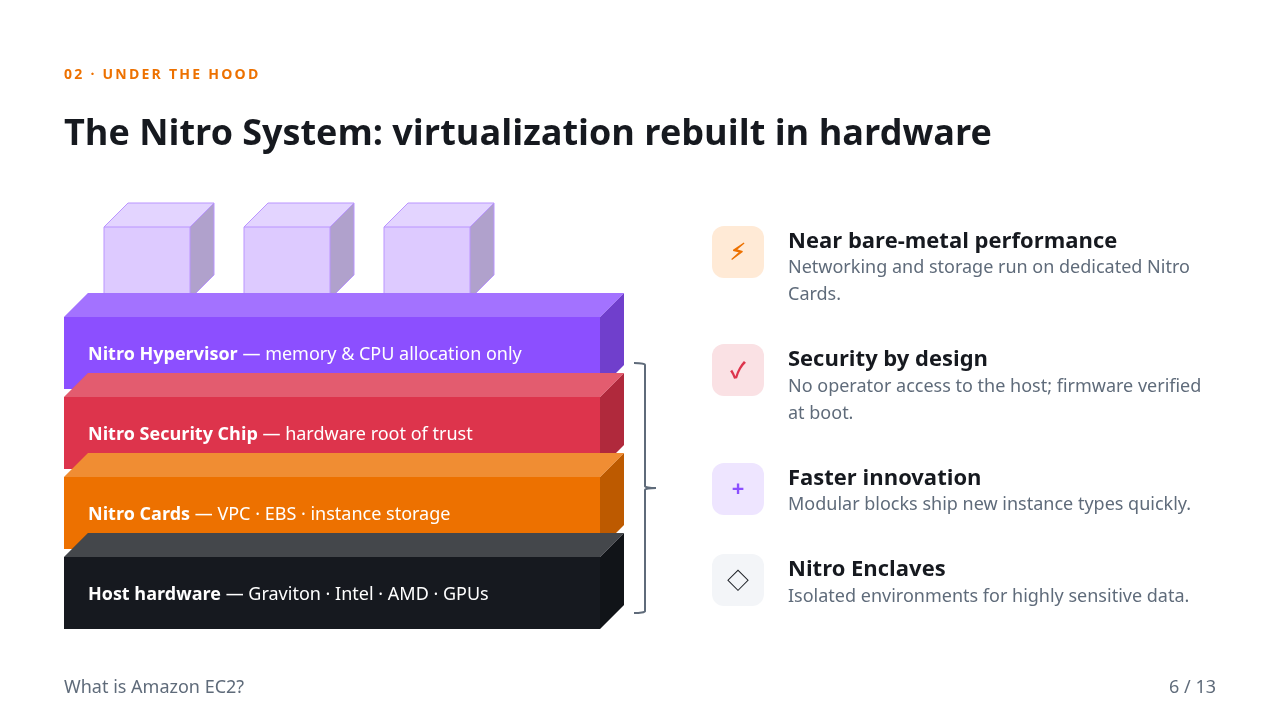
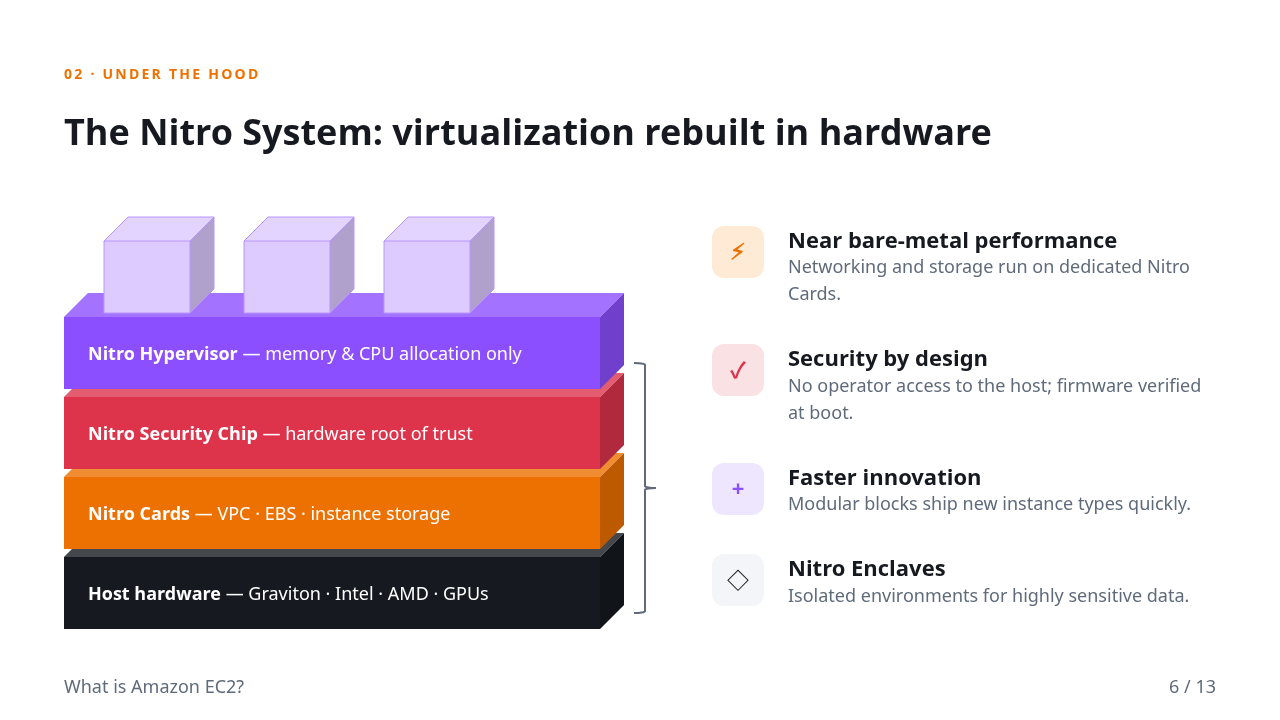
doc: re-render showcase with the reordered Nitro stack

diff --git a/examples/showcase/decks/ec2-intro/index.html b/examples/showcase/decks/ec2-intro/index.html
@@ -1013,14 +1013,23 @@
 <h2 class="balpyo-text" data-balpyo-id="s5.1" data-balpyo-el="h2" data-balpyo-enter="rise" data-balpyo-enter-delay="240" style="font-family: var(--balpyo-font-heading); font-size: 36px; font-weight: 700; line-height: 1.3; color: var(--balpyo-color-fg); text-align: start">The Nitro System: virtualization rebuilt in hardware</h2>
 <div class="balpyo-row" data-balpyo-id="s5.2" data-balpyo-el="row" data-balpyo-enter="rise" data-balpyo-enter-delay="330" style="gap: var(--balpyo-space-xl); align-items: center; flex-grow: 1">
 <div class="balpyo-stack" data-balpyo-id="s5.2.0" data-balpyo-el="stack" style="width: 600px; height: 430px">
-<div class="balpyo-shape" data-balpyo-id="s5.2.0.0" data-balpyo-el="shape" style="width: 110px; height: 96px; position: absolute; left: 40px; top: 0px">
-<svg class="balpyo-shape-ink" viewBox="0 0 110 96" preserveAspectRatio="none" aria-hidden="true" style="fill: hsl(from var(--balpyo-color-accent4) h s calc(l * 0.3 + 70)); stroke: hsl(from var(--balpyo-color-accent4) h s calc(l * 0.6 + 40)); stroke-width: 1px"><path stroke="none" d="M0,24 L86,24 L86,96 L0,96 Z" vector-effect="non-scaling-stroke"/><path stroke="none" d="M86,24 L110,0 L110,72 L86,96 Z" vector-effect="non-scaling-stroke"/><path d="M86,24 L110,0 L110,72 L86,96 Z" style="fill: rgb(0 0 0 / 0.2); stroke: none"/><path stroke="none" d="M0,24 L24,0 L110,0 L86,24 Z" vector-effect="non-scaling-stroke"/><path d="M0,24 L24,0 L110,0 L86,24 Z" style="fill: rgb(255 255 255 / 0.2); stroke: none"/><path fill="none" d="M0,24 L24,0 L110,0 L110,72 L86,96 L0,96 Z M0,24 L86,24 L110,0 M86,24 L86,96" vector-effect="non-scaling-stroke"/></svg>
+<div class="balpyo-shape" data-balpyo-id="s5.2.0.0" data-balpyo-el="shape" style="width: 560px; height: 96px; position: absolute; left: 0px; top: 330px">
+<svg class="balpyo-shape-ink" viewBox="0 0 560 96" preserveAspectRatio="none" aria-hidden="true" style="fill: var(--balpyo-color-fg); stroke: none"><path stroke="none" d="M0,24 L536,24 L536,96 L0,96 Z" vector-effect="non-scaling-stroke"/><path stroke="none" d="M536,24 L560,0 L560,72 L536,96 Z" vector-effect="non-scaling-stroke"/><path d="M536,24 L560,0 L560,72 L536,96 Z" style="fill: rgb(0 0 0 / 0.2); stroke: none"/><path stroke="none" d="M0,24 L24,0 L560,0 L536,24 Z" vector-effect="non-scaling-stroke"/><path d="M0,24 L24,0 L560,0 L536,24 Z" style="fill: rgb(255 255 255 / 0.2); stroke: none"/><path fill="none" d="M0,24 L24,0 L560,0 L560,72 L536,96 L0,96 Z M0,24 L536,24 L560,0 M536,24 L536,96" vector-effect="non-scaling-stroke"/></svg>
+<div class="balpyo-shape-body" style="left: 0%; top: 25%; right: 4.2857%; bottom: 0%; padding: var(--balpyo-space-md) var(--balpyo-space-md) var(--balpyo-space-md) var(--balpyo-space-md)">
+<p class="balpyo-text" data-balpyo-id="s5.2.0.0.0" data-balpyo-el="p" style="font-family: var(--balpyo-font-body); font-size: 18px; font-weight: 400; line-height: 1.5; color: var(--balpyo-color-bg); text-align: start"><strong style="font-family: var(--balpyo-font-body); font-size: 18px; font-weight: 700; line-height: 1.5; color: var(--balpyo-color-bg); text-align: start; font-style: normal; text-decoration: none">Host hardware</strong> — Graviton · Intel · AMD · GPUs</p>
 </div>
-<div class="balpyo-shape" data-balpyo-id="s5.2.0.1" data-balpyo-el="shape" style="width: 110px; height: 96px; position: absolute; left: 180px; top: 0px">
-<svg class="balpyo-shape-ink" viewBox="0 0 110 96" preserveAspectRatio="none" aria-hidden="true" style="fill: hsl(from var(--balpyo-color-accent4) h s calc(l * 0.3 + 70)); stroke: hsl(from var(--balpyo-color-accent4) h s calc(l * 0.6 + 40)); stroke-width: 1px"><path stroke="none" d="M0,24 L86,24 L86,96 L0,96 Z" vector-effect="non-scaling-stroke"/><path stroke="none" d="M86,24 L110,0 L110,72 L86,96 Z" vector-effect="non-scaling-stroke"/><path d="M86,24 L110,0 L110,72 L86,96 Z" style="fill: rgb(0 0 0 / 0.2); stroke: none"/><path stroke="none" d="M0,24 L24,0 L110,0 L86,24 Z" vector-effect="non-scaling-stroke"/><path d="M0,24 L24,0 L110,0 L86,24 Z" style="fill: rgb(255 255 255 / 0.2); stroke: none"/><path fill="none" d="M0,24 L24,0 L110,0 L110,72 L86,96 L0,96 Z M0,24 L86,24 L110,0 M86,24 L86,96" vector-effect="non-scaling-stroke"/></svg>
 </div>
-<div class="balpyo-shape" data-balpyo-id="s5.2.0.2" data-balpyo-el="shape" style="width: 110px; height: 96px; position: absolute; left: 320px; top: 0px">
-<svg class="balpyo-shape-ink" viewBox="0 0 110 96" preserveAspectRatio="none" aria-hidden="true" style="fill: hsl(from var(--balpyo-color-accent4) h s calc(l * 0.3 + 70)); stroke: hsl(from var(--balpyo-color-accent4) h s calc(l * 0.6 + 40)); stroke-width: 1px"><path stroke="none" d="M0,24 L86,24 L86,96 L0,96 Z" vector-effect="non-scaling-stroke"/><path stroke="none" d="M86,24 L110,0 L110,72 L86,96 Z" vector-effect="non-scaling-stroke"/><path d="M86,24 L110,0 L110,72 L86,96 Z" style="fill: rgb(0 0 0 / 0.2); stroke: none"/><path stroke="none" d="M0,24 L24,0 L110,0 L86,24 Z" vector-effect="non-scaling-stroke"/><path d="M0,24 L24,0 L110,0 L86,24 Z" style="fill: rgb(255 255 255 / 0.2); stroke: none"/><path fill="none" d="M0,24 L24,0 L110,0 L110,72 L86,96 L0,96 Z M0,24 L86,24 L110,0 M86,24 L86,96" vector-effect="non-scaling-stroke"/></svg>
+<div class="balpyo-shape" data-balpyo-id="s5.2.0.1" data-balpyo-el="shape" style="width: 560px; height: 96px; position: absolute; left: 0px; top: 250px">
+<svg class="balpyo-shape-ink" viewBox="0 0 560 96" preserveAspectRatio="none" aria-hidden="true" style="fill: var(--balpyo-color-accent1); stroke: none"><path stroke="none" d="M0,24 L536,24 L536,96 L0,96 Z" vector-effect="non-scaling-stroke"/><path stroke="none" d="M536,24 L560,0 L560,72 L536,96 Z" vector-effect="non-scaling-stroke"/><path d="M536,24 L560,0 L560,72 L536,96 Z" style="fill: rgb(0 0 0 / 0.2); stroke: none"/><path stroke="none" d="M0,24 L24,0 L560,0 L536,24 Z" vector-effect="non-scaling-stroke"/><path d="M0,24 L24,0 L560,0 L536,24 Z" style="fill: rgb(255 255 255 / 0.2); stroke: none"/><path fill="none" d="M0,24 L24,0 L560,0 L560,72 L536,96 L0,96 Z M0,24 L536,24 L560,0 M536,24 L536,96" vector-effect="non-scaling-stroke"/></svg>
+<div class="balpyo-shape-body" style="left: 0%; top: 25%; right: 4.2857%; bottom: 0%; padding: var(--balpyo-space-md) var(--balpyo-space-md) var(--balpyo-space-md) var(--balpyo-space-md)">
+<p class="balpyo-text" data-balpyo-id="s5.2.0.1.0" data-balpyo-el="p" style="font-family: var(--balpyo-font-body); font-size: 18px; font-weight: 400; line-height: 1.5; color: var(--balpyo-color-bg); text-align: start"><strong style="font-family: var(--balpyo-font-body); font-size: 18px; font-weight: 700; line-height: 1.5; color: var(--balpyo-color-bg); text-align: start; font-style: normal; text-decoration: none">Nitro Cards</strong> — VPC · EBS · instance storage</p>
+</div>
+</div>
+<div class="balpyo-shape" data-balpyo-id="s5.2.0.2" data-balpyo-el="shape" style="width: 560px; height: 96px; position: absolute; left: 0px; top: 170px">
+<svg class="balpyo-shape-ink" viewBox="0 0 560 96" preserveAspectRatio="none" aria-hidden="true" style="fill: var(--balpyo-color-accent5); stroke: none"><path stroke="none" d="M0,24 L536,24 L536,96 L0,96 Z" vector-effect="non-scaling-stroke"/><path stroke="none" d="M536,24 L560,0 L560,72 L536,96 Z" vector-effect="non-scaling-stroke"/><path d="M536,24 L560,0 L560,72 L536,96 Z" style="fill: rgb(0 0 0 / 0.2); stroke: none"/><path stroke="none" d="M0,24 L24,0 L560,0 L536,24 Z" vector-effect="non-scaling-stroke"/><path d="M0,24 L24,0 L560,0 L536,24 Z" style="fill: rgb(255 255 255 / 0.2); stroke: none"/><path fill="none" d="M0,24 L24,0 L560,0 L560,72 L536,96 L0,96 Z M0,24 L536,24 L560,0 M536,24 L536,96" vector-effect="non-scaling-stroke"/></svg>
+<div class="balpyo-shape-body" style="left: 0%; top: 25%; right: 4.2857%; bottom: 0%; padding: var(--balpyo-space-md) var(--balpyo-space-md) var(--balpyo-space-md) var(--balpyo-space-md)">
+<p class="balpyo-text" data-balpyo-id="s5.2.0.2.0" data-balpyo-el="p" style="font-family: var(--balpyo-font-body); font-size: 18px; font-weight: 400; line-height: 1.5; color: var(--balpyo-color-bg); text-align: start"><strong style="font-family: var(--balpyo-font-body); font-size: 18px; font-weight: 700; line-height: 1.5; color: var(--balpyo-color-bg); text-align: start; font-style: normal; text-decoration: none">Nitro Security Chip</strong> — hardware root of trust</p>
+</div>
 </div>
 <div class="balpyo-shape" data-balpyo-id="s5.2.0.3" data-balpyo-el="shape" style="width: 560px; height: 96px; position: absolute; left: 0px; top: 90px">
 <svg class="balpyo-shape-ink" viewBox="0 0 560 96" preserveAspectRatio="none" aria-hidden="true" style="fill: var(--balpyo-color-accent4); stroke: none"><path stroke="none" d="M0,24 L536,24 L536,96 L0,96 Z" vector-effect="non-scaling-stroke"/><path stroke="none" d="M536,24 L560,0 L560,72 L536,96 Z" vector-effect="non-scaling-stroke"/><path d="M536,24 L560,0 L560,72 L536,96 Z" style="fill: rgb(0 0 0 / 0.2); stroke: none"/><path stroke="none" d="M0,24 L24,0 L560,0 L536,24 Z" vector-effect="non-scaling-stroke"/><path d="M0,24 L24,0 L560,0 L536,24 Z" style="fill: rgb(255 255 255 / 0.2); stroke: none"/><path fill="none" d="M0,24 L24,0 L560,0 L560,72 L536,96 L0,96 Z M0,24 L536,24 L560,0 M536,24 L536,96" vector-effect="non-scaling-stroke"/></svg>
@@ -1028,23 +1037,14 @@
 <p class="balpyo-text" data-balpyo-id="s5.2.0.3.0" data-balpyo-el="p" style="font-family: var(--balpyo-font-body); font-size: 18px; font-weight: 400; line-height: 1.5; color: var(--balpyo-color-bg); text-align: start"><strong style="font-family: var(--balpyo-font-body); font-size: 18px; font-weight: 700; line-height: 1.5; color: var(--balpyo-color-bg); text-align: start; font-style: normal; text-decoration: none">Nitro Hypervisor</strong> — memory &amp; CPU allocation only</p>
 </div>
 </div>
-<div class="balpyo-shape" data-balpyo-id="s5.2.0.4" data-balpyo-el="shape" style="width: 560px; height: 96px; position: absolute; left: 0px; top: 170px">
-<svg class="balpyo-shape-ink" viewBox="0 0 560 96" preserveAspectRatio="none" aria-hidden="true" style="fill: var(--balpyo-color-accent5); stroke: none"><path stroke="none" d="M0,24 L536,24 L536,96 L0,96 Z" vector-effect="non-scaling-stroke"/><path stroke="none" d="M536,24 L560,0 L560,72 L536,96 Z" vector-effect="non-scaling-stroke"/><path d="M536,24 L560,0 L560,72 L536,96 Z" style="fill: rgb(0 0 0 / 0.2); stroke: none"/><path stroke="none" d="M0,24 L24,0 L560,0 L536,24 Z" vector-effect="non-scaling-stroke"/><path d="M0,24 L24,0 L560,0 L536,24 Z" style="fill: rgb(255 255 255 / 0.2); stroke: none"/><path fill="none" d="M0,24 L24,0 L560,0 L560,72 L536,96 L0,96 Z M0,24 L536,24 L560,0 M536,24 L536,96" vector-effect="non-scaling-stroke"/></svg>
-<div class="balpyo-shape-body" style="left: 0%; top: 25%; right: 4.2857%; bottom: 0%; padding: var(--balpyo-space-md) var(--balpyo-space-md) var(--balpyo-space-md) var(--balpyo-space-md)">
-<p class="balpyo-text" data-balpyo-id="s5.2.0.4.0" data-balpyo-el="p" style="font-family: var(--balpyo-font-body); font-size: 18px; font-weight: 400; line-height: 1.5; color: var(--balpyo-color-bg); text-align: start"><strong style="font-family: var(--balpyo-font-body); font-size: 18px; font-weight: 700; line-height: 1.5; color: var(--balpyo-color-bg); text-align: start; font-style: normal; text-decoration: none">Nitro Security Chip</strong> — hardware root of trust</p>
+<div class="balpyo-shape" data-balpyo-id="s5.2.0.4" data-balpyo-el="shape" style="width: 110px; height: 96px; position: absolute; left: 40px; top: 14px">
+<svg class="balpyo-shape-ink" viewBox="0 0 110 96" preserveAspectRatio="none" aria-hidden="true" style="fill: hsl(from var(--balpyo-color-accent4) h s calc(l * 0.3 + 70)); stroke: hsl(from var(--balpyo-color-accent4) h s calc(l * 0.6 + 40)); stroke-width: 1px"><path stroke="none" d="M0,24 L86,24 L86,96 L0,96 Z" vector-effect="non-scaling-stroke"/><path stroke="none" d="M86,24 L110,0 L110,72 L86,96 Z" vector-effect="non-scaling-stroke"/><path d="M86,24 L110,0 L110,72 L86,96 Z" style="fill: rgb(0 0 0 / 0.2); stroke: none"/><path stroke="none" d="M0,24 L24,0 L110,0 L86,24 Z" vector-effect="non-scaling-stroke"/><path d="M0,24 L24,0 L110,0 L86,24 Z" style="fill: rgb(255 255 255 / 0.2); stroke: none"/><path fill="none" d="M0,24 L24,0 L110,0 L110,72 L86,96 L0,96 Z M0,24 L86,24 L110,0 M86,24 L86,96" vector-effect="non-scaling-stroke"/></svg>
 </div>
+<div class="balpyo-shape" data-balpyo-id="s5.2.0.5" data-balpyo-el="shape" style="width: 110px; height: 96px; position: absolute; left: 180px; top: 14px">
+<svg class="balpyo-shape-ink" viewBox="0 0 110 96" preserveAspectRatio="none" aria-hidden="true" style="fill: hsl(from var(--balpyo-color-accent4) h s calc(l * 0.3 + 70)); stroke: hsl(from var(--balpyo-color-accent4) h s calc(l * 0.6 + 40)); stroke-width: 1px"><path stroke="none" d="M0,24 L86,24 L86,96 L0,96 Z" vector-effect="non-scaling-stroke"/><path stroke="none" d="M86,24 L110,0 L110,72 L86,96 Z" vector-effect="non-scaling-stroke"/><path d="M86,24 L110,0 L110,72 L86,96 Z" style="fill: rgb(0 0 0 / 0.2); stroke: none"/><path stroke="none" d="M0,24 L24,0 L110,0 L86,24 Z" vector-effect="non-scaling-stroke"/><path d="M0,24 L24,0 L110,0 L86,24 Z" style="fill: rgb(255 255 255 / 0.2); stroke: none"/><path fill="none" d="M0,24 L24,0 L110,0 L110,72 L86,96 L0,96 Z M0,24 L86,24 L110,0 M86,24 L86,96" vector-effect="non-scaling-stroke"/></svg>
 </div>
-<div class="balpyo-shape" data-balpyo-id="s5.2.0.5" data-balpyo-el="shape" style="width: 560px; height: 96px; position: absolute; left: 0px; top: 250px">
-<svg class="balpyo-shape-ink" viewBox="0 0 560 96" preserveAspectRatio="none" aria-hidden="true" style="fill: var(--balpyo-color-accent1); stroke: none"><path stroke="none" d="M0,24 L536,24 L536,96 L0,96 Z" vector-effect="non-scaling-stroke"/><path stroke="none" d="M536,24 L560,0 L560,72 L536,96 Z" vector-effect="non-scaling-stroke"/><path d="M536,24 L560,0 L560,72 L536,96 Z" style="fill: rgb(0 0 0 / 0.2); stroke: none"/><path stroke="none" d="M0,24 L24,0 L560,0 L536,24 Z" vector-effect="non-scaling-stroke"/><path d="M0,24 L24,0 L560,0 L536,24 Z" style="fill: rgb(255 255 255 / 0.2); stroke: none"/><path fill="none" d="M0,24 L24,0 L560,0 L560,72 L536,96 L0,96 Z M0,24 L536,24 L560,0 M536,24 L536,96" vector-effect="non-scaling-stroke"/></svg>
-<div class="balpyo-shape-body" style="left: 0%; top: 25%; right: 4.2857%; bottom: 0%; padding: var(--balpyo-space-md) var(--balpyo-space-md) var(--balpyo-space-md) var(--balpyo-space-md)">
-<p class="balpyo-text" data-balpyo-id="s5.2.0.5.0" data-balpyo-el="p" style="font-family: var(--balpyo-font-body); font-size: 18px; font-weight: 400; line-height: 1.5; color: var(--balpyo-color-bg); text-align: start"><strong style="font-family: var(--balpyo-font-body); font-size: 18px; font-weight: 700; line-height: 1.5; color: var(--balpyo-color-bg); text-align: start; font-style: normal; text-decoration: none">Nitro Cards</strong> — VPC · EBS · instance storage</p>
-</div>
-</div>
-<div class="balpyo-shape" data-balpyo-id="s5.2.0.6" data-balpyo-el="shape" style="width: 560px; height: 96px; position: absolute; left: 0px; top: 330px">
-<svg class="balpyo-shape-ink" viewBox="0 0 560 96" preserveAspectRatio="none" aria-hidden="true" style="fill: var(--balpyo-color-fg); stroke: none"><path stroke="none" d="M0,24 L536,24 L536,96 L0,96 Z" vector-effect="non-scaling-stroke"/><path stroke="none" d="M536,24 L560,0 L560,72 L536,96 Z" vector-effect="non-scaling-stroke"/><path d="M536,24 L560,0 L560,72 L536,96 Z" style="fill: rgb(0 0 0 / 0.2); stroke: none"/><path stroke="none" d="M0,24 L24,0 L560,0 L536,24 Z" vector-effect="non-scaling-stroke"/><path d="M0,24 L24,0 L560,0 L536,24 Z" style="fill: rgb(255 255 255 / 0.2); stroke: none"/><path fill="none" d="M0,24 L24,0 L560,0 L560,72 L536,96 L0,96 Z M0,24 L536,24 L560,0 M536,24 L536,96" vector-effect="non-scaling-stroke"/></svg>
-<div class="balpyo-shape-body" style="left: 0%; top: 25%; right: 4.2857%; bottom: 0%; padding: var(--balpyo-space-md) var(--balpyo-space-md) var(--balpyo-space-md) var(--balpyo-space-md)">
-<p class="balpyo-text" data-balpyo-id="s5.2.0.6.0" data-balpyo-el="p" style="font-family: var(--balpyo-font-body); font-size: 18px; font-weight: 400; line-height: 1.5; color: var(--balpyo-color-bg); text-align: start"><strong style="font-family: var(--balpyo-font-body); font-size: 18px; font-weight: 700; line-height: 1.5; color: var(--balpyo-color-bg); text-align: start; font-style: normal; text-decoration: none">Host hardware</strong> — Graviton · Intel · AMD · GPUs</p>
-</div>
+<div class="balpyo-shape" data-balpyo-id="s5.2.0.6" data-balpyo-el="shape" style="width: 110px; height: 96px; position: absolute; left: 320px; top: 14px">
+<svg class="balpyo-shape-ink" viewBox="0 0 110 96" preserveAspectRatio="none" aria-hidden="true" style="fill: hsl(from var(--balpyo-color-accent4) h s calc(l * 0.3 + 70)); stroke: hsl(from var(--balpyo-color-accent4) h s calc(l * 0.6 + 40)); stroke-width: 1px"><path stroke="none" d="M0,24 L86,24 L86,96 L0,96 Z" vector-effect="non-scaling-stroke"/><path stroke="none" d="M86,24 L110,0 L110,72 L86,96 Z" vector-effect="non-scaling-stroke"/><path d="M86,24 L110,0 L110,72 L86,96 Z" style="fill: rgb(0 0 0 / 0.2); stroke: none"/><path stroke="none" d="M0,24 L24,0 L110,0 L86,24 Z" vector-effect="non-scaling-stroke"/><path d="M0,24 L24,0 L110,0 L86,24 Z" style="fill: rgb(255 255 255 / 0.2); stroke: none"/><path fill="none" d="M0,24 L24,0 L110,0 L110,72 L86,96 L0,96 Z M0,24 L86,24 L110,0 M86,24 L86,96" vector-effect="non-scaling-stroke"/></svg>
 </div>
 <div class="balpyo-shape" data-balpyo-id="s5.2.0.7" data-balpyo-el="shape" style="width: 22px; height: 250px; position: absolute; left: 570px; top: 160px">
 <svg class="balpyo-shape-ink" viewBox="0 0 22 250" preserveAspectRatio="none" aria-hidden="true" style="fill: none; stroke: var(--balpyo-color-muted); stroke-width: 2px"><path stroke="none" d="M0,0 A11,1.8333 0 0 1 11,1.8333 L11,123.1667 A11,1.8333 0 0 0 22,125 A11,1.8333 0 0 0 11,126.8333 L11,248.1667 A11,1.8333 0 0 1 0,250 Z" vector-effect="non-scaling-stroke"/><path fill="none" d="M0,0 A11,1.8333 0 0 1 11,1.8333 L11,123.1667 A11,1.8333 0 0 0 22,125 A11,1.8333 0 0 0 11,126.8333 L11,248.1667 A11,1.8333 0 0 1 0,250" vector-effect="non-scaling-stroke"/></svg>
